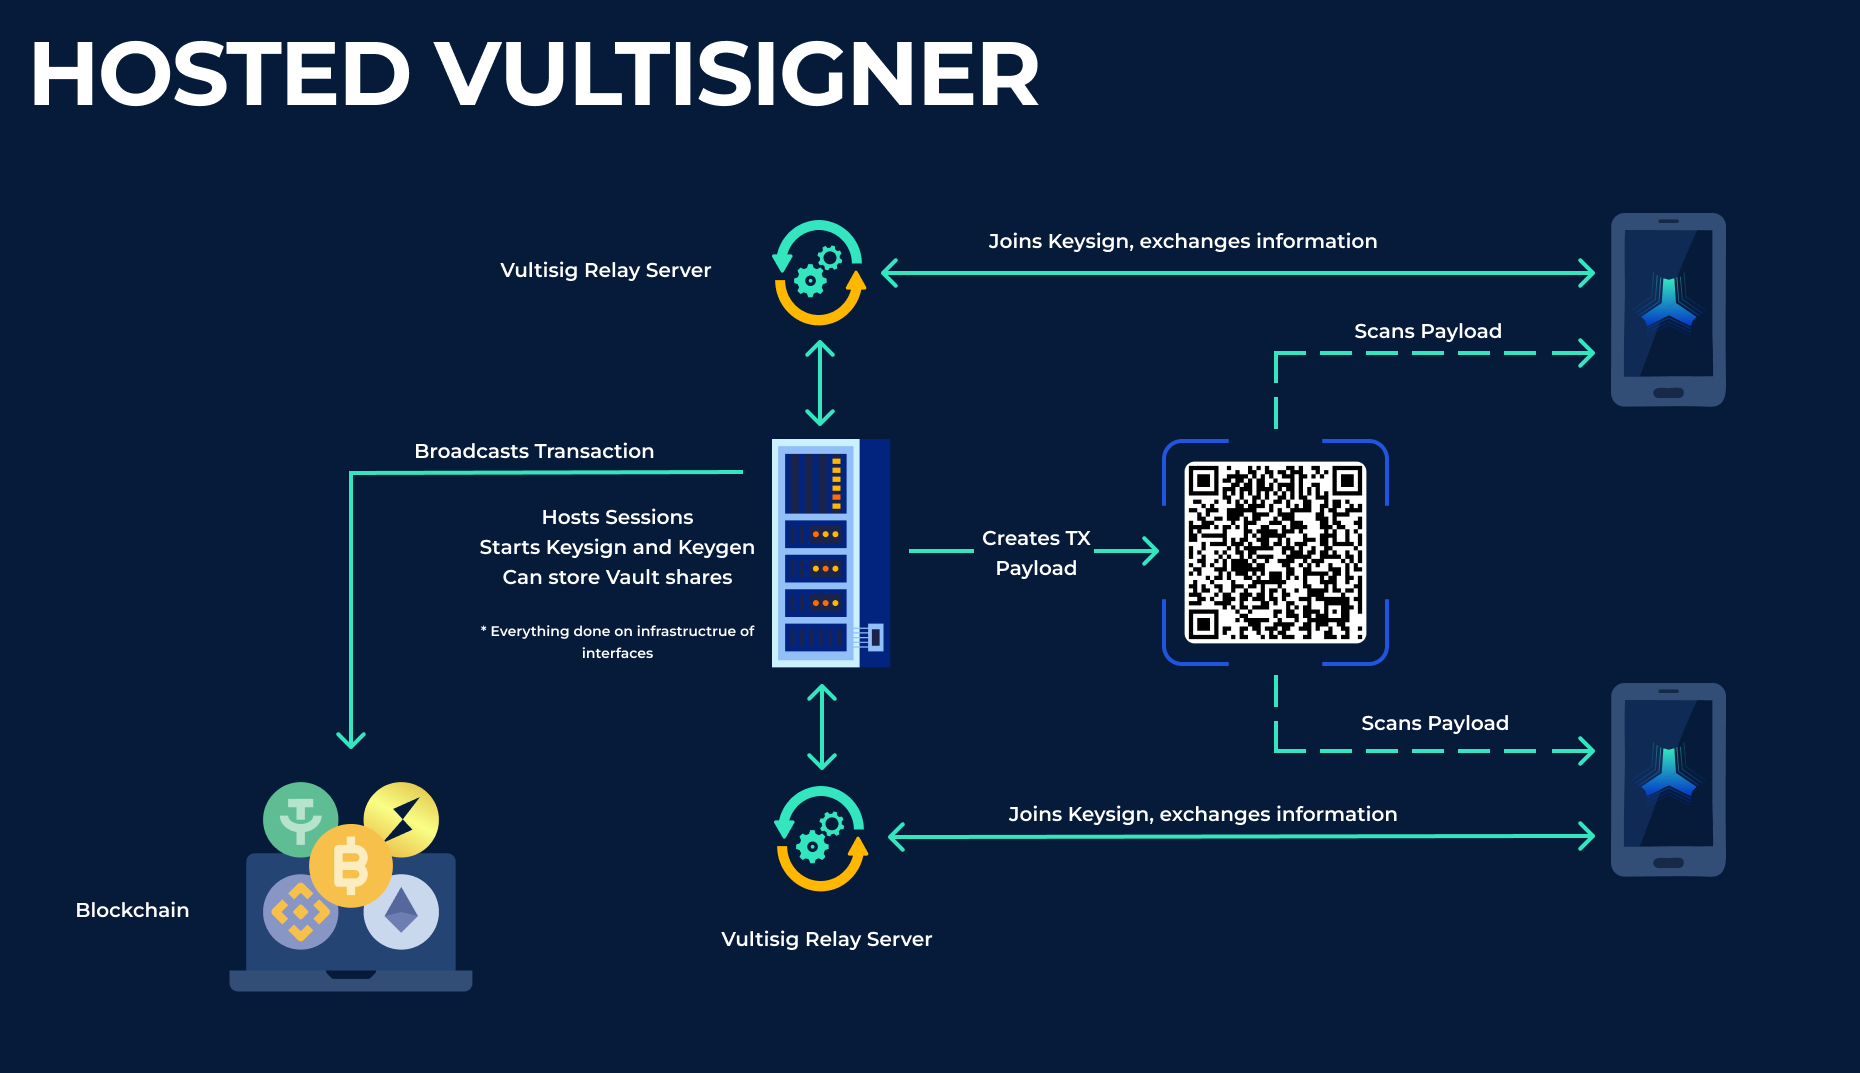
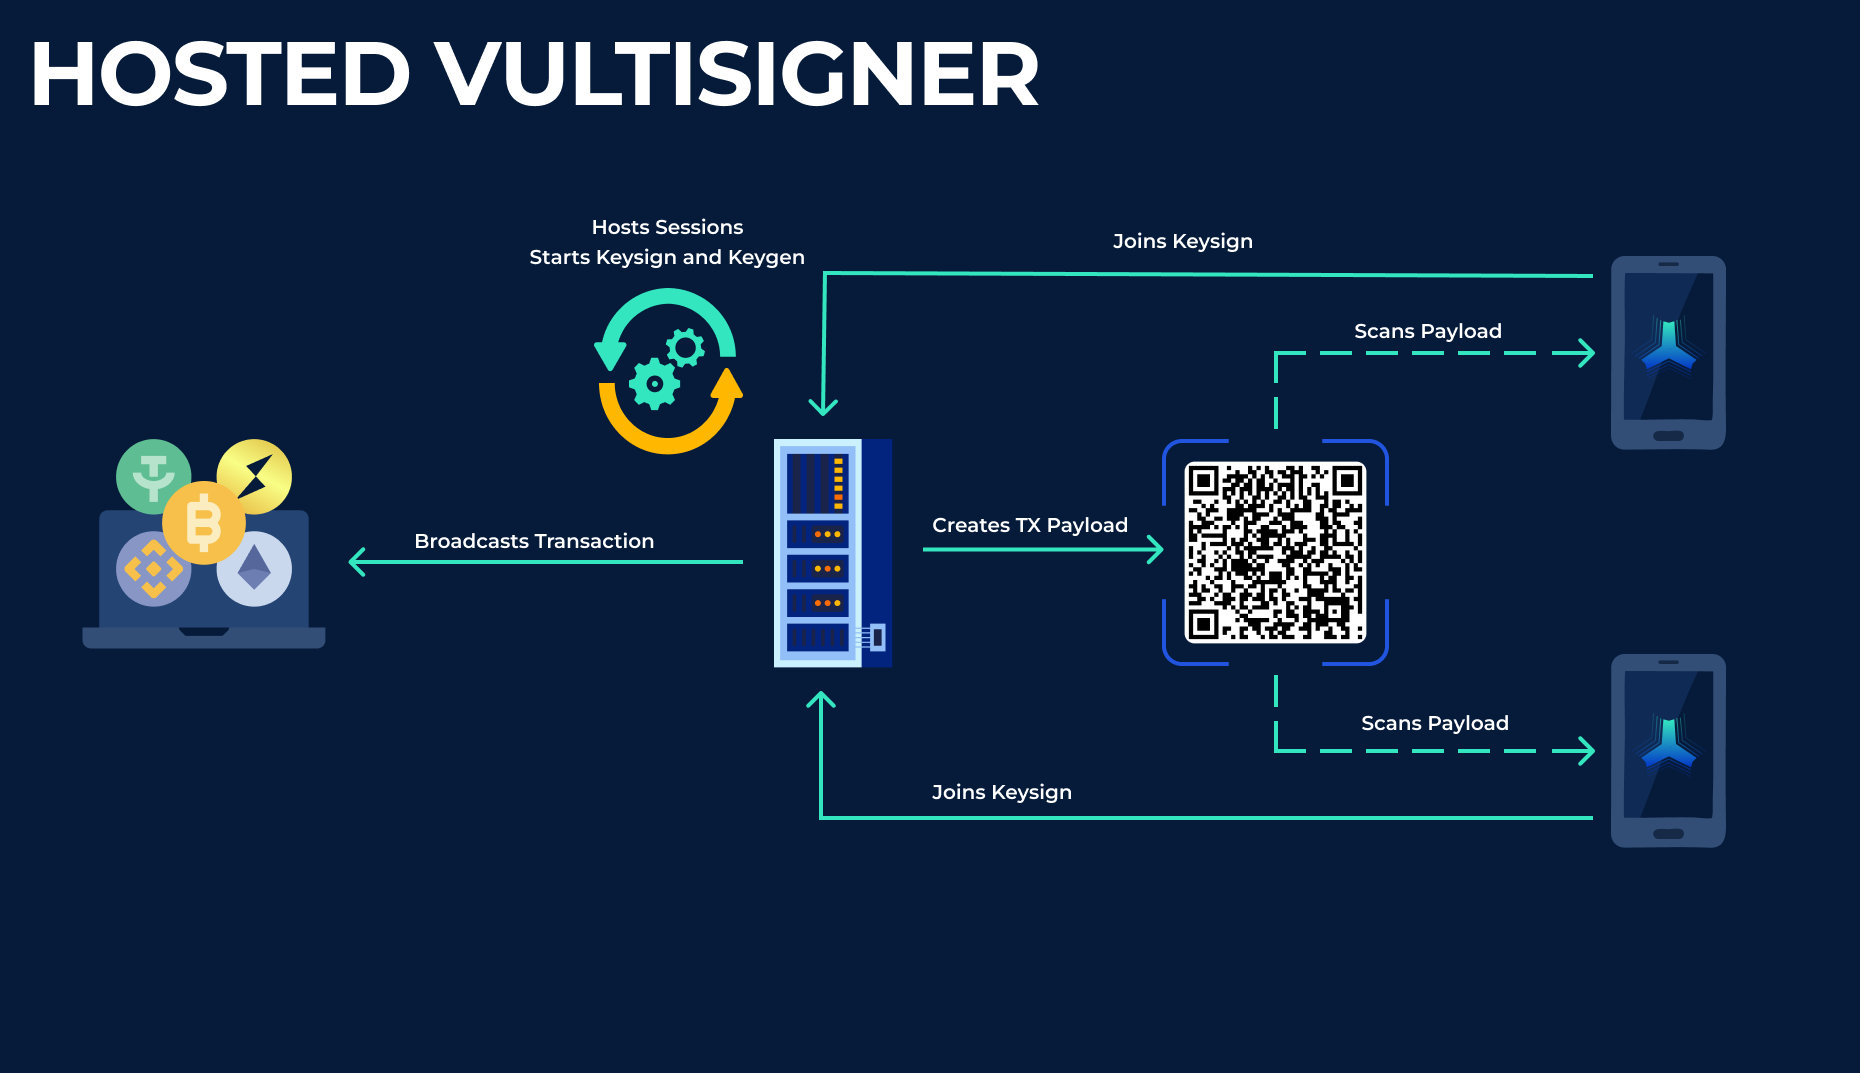
GITBOOK-58: Amend reshare and various passages

diff --git a/user-actions/managing-your-vault/vault-reshare.md b/user-actions/managing-your-vault/vault-reshare.md
@@ -1,25 +1,63 @@
 ---
-description: Resharing Vault Shares with paired devices
+description: >-
+  Resharing Vault Shares with paired devices and adding new devices to the
+  vault.
 ---
 
 # Vault Reshare
 
-<figure><img src="../../.gitbook/assets/image (1).png" alt=""><figcaption></figcaption></figure>
+<figure><img src="../../.gitbook/assets/image (1).png" alt=""><figcaption><p>Feature in settings</p></figcaption></figure>
 
-Re-share is a feature that allows you to re-share the Vault to all the other devices again, it is also possible to increase or decrease the number of parties participating in the Vault.
+## What is the Reshare feature
 
-Do this if a device was lost and want to include a new, unique device or to make sure all devices have compatible shares.
+Resharing is a feature that can be used in two ways.
 
-After clicking on "Re-share" in the Vultisig menu, the subsequent steps are very similar to creating a Vault: [#setup](../creating-a-vault.md#setup)
+1. Allows the user to reshare the current Vault configuration and update the vault shares of the current present devices of a Vault.
+2.  To increase/decrease the number of participating devices in a Vault setup.
 
-<figure><img src="../../.gitbook/assets/3.png" alt=""><figcaption></figcaption></figure>
 
-## Changing the Number of Parties
 
-Changing the number of parties is as simple as re-sharing the Vault to the name old devices, and joining the Keygen ceremony or leaving a device out.
+<figure><img src="../../.gitbook/assets/Reshare.png" alt=""><figcaption></figcaption></figure>
 
-After re-sharing a vault, the vault shares of each device also change. Therefore, the old shares that weren't present at the ceremony will be invalid and will not be able to sign any transactions.
+## How to use the Feature
+
+{% hint style="info" %}
+A threshold majority is **always** required to use this feature. \
+For example, for a 2-of-2 vault, both devices must be present.
+{% endhint %}
+
+Do this if a device has been lost in a 2-of-3 setup and you need to add a new, unique device or update the current shares.\
+_If a device of a 2-of-2 setup is lost please use the_ [_backup feature_](vault-backup.md)_._
+
+After clicking "Reshare" in the Vultisig Vault menu, the next steps are very similar to creating a Vault, as the reshare feature is just another keygen ceremony.
+
+<figure><img src="../../.gitbook/assets/3.png" alt="" width="188"><figcaption></figcaption></figure>
+
+## When to use the Reshare feature
+
+Like described in the section about [what the feature is](vault-reshare.md#what-is-the-reshare-feature), it can be used for the following:
+
+### Resharing the currenct Vault Setup
+
+This option doesn't change the configuration, it just refreshes the Vault shares. \
+This feature is recommended if there is a possibility that a Vault share has been compromised.
+
+### Changing the Number of Parties
+
+Changing the number of parties is as simple as joining another keygen session. \
+This gives the ability to change the number of devices participating in a setup. \
+New unique devices can be added or old devices can be excluded.
+
+## **IMPORTANT NOTE FOR RESHARE**
+
+After resharing a vault, the vault shares of each device also change.\
+This invalidates the old backups of the shares in Vultisig and increases the risk that mixed backups will be imported and restored. \
+**This can result in inaccessible vaults.**\
+_If that happened the_ [_emergency recovery_](../../threshold-signature-scheme/emergency-recovery.md) _can be used as last resort._
+
+Any device that was not present in a reshare will have a different vault share to the rest of the vault, making it impossible to join the keygen or keysign after the reshare. \
+This is intentional, as vault shares can be disabled in Vultisig if a share is suspected of being compromised.
 
 {% hint style="danger" %}
-**When you re-share, remove or add a device from your vault, make sure that you ALWAYS back up the vault shares!**
+**Be sure to ALWAYS back up your Vault shares after using the reshare feature!**
 {% endhint %}

diff --git a/user-actions/creating-a-vault.md b/user-actions/creating-a-vault.md
@@ -27,31 +27,31 @@ The following are the most common vaults:
 ## Creating A Vault
 
 {% hint style="success" %}
-Remember - all your devices must be open with Vultisig and must be connected on the same Wi-Fi network or Internet, using the Vultisig Relay Server. \
-**If they are not fully connected, they will fail the Keygen.**
+Remember - all your devices must have the Vultisig open and must be connected to the same Wi-Fi network or Internet, using the Vultisig Relay Server. \
+**The keygen will fail if the connection is not stable.**
 {% endhint %}
 
 Get your devices ready and create a vault.
 
 <figure><img src="../.gitbook/assets/Get Started .png" alt="" width="188"><figcaption></figcaption></figure>
 
-Select the Vault set-up of preference: 2-2, 2-3, m-n
+Select the Vault setup of preference:&#x20;
+
+* 2-of-2
+* 2-of-3
+* &#x20;`m`-of-`n`
 
 <figure><img src="../.gitbook/assets/3.png" alt="" width="188"><figcaption></figcaption></figure>
 
 
 
-Follow these steps for the following devices after selecting your preferred setup**:**
+After selecting your preferred setup, follow these steps for the following devices**:**
 
 **Main Device:** START -> will show a QR Code to scan with your pairing device(s)
 
 <figure><img src="../.gitbook/assets/Main Device Keygen Internet.png" alt="" width="188"><figcaption></figcaption></figure>
 
-{% hint style="info" %}
-The Internet and Local options will be implemented in the next iOS update and are already active on android
-{% endhint %}
-
-**Pair Device:** PAIR -> will start the camera to scan the QR code
+**Pair Device:** PAIR -> will start the camera to scan the QR code or a shared QR code can be imported.
 
 <figure><img src="../.gitbook/assets/3.png" alt="" width="188"><figcaption></figcaption></figure>
 
@@ -59,20 +59,22 @@ The Internet and Local options will be implemented in the next iOS update and ar
 
 You can choose Internet or WiFI.
 
-1. **Internet:** Using the Vultisig relay server. Encrypted packets are routed through a relay server.
-2. **Wi-Fi**: Using local Network, however may not work on some Wi-Fi networks (since they block mDNS packets)
+1. **Internet:** Using the Vultisig relay server. Encrypted packages are routed through the Vultisig relay server.
+2. **Wi-Fi**: Using local Network, however may not work on some Wi-Fi networks (since they may block mDNS packets)
 
 <figure><img src="../.gitbook/assets/Main Device Keygen Internet.png" alt="" width="188"><figcaption></figcaption></figure>
 
 ### Keygen
 
-Once clicking **CONTINUE**, the keygen process will begin. Firstly, it will create the pre-parameter (your vault shares and some other aspects, around 10 seconds), then it will create the ECDSA and EdDSA keys (another 10 seconds). Finally, it will be done! Make sure all devices show the done screen.
+Once you click CONTINUE, the keygen process will begin. First it will create the pre-parameters (your vault shares and some other aspects, about 10 seconds), then it will create the ECDSA and EdDSA keys (another 10 seconds). \
+Finally, it is done! Make sure that all devices show the done screen.
 
 <figure><img src="../.gitbook/assets/Keygen.png" alt="" width="188"><figcaption></figcaption></figure>
 
 ### Troubleshooting
 
-If Keygen fails it is because you have an unreliable network and the devices dropped connections.
+If a Keygen fails, it may be because you have an unreliable network and the devices dropped connections.
 
-1. Quit the apps and start again.
+1. Quit the apps.
 2. Change networks.
+3. Start again.

diff --git a/user-actions/managing-your-vault/vault-backup.md b/user-actions/managing-your-vault/vault-backup.md
@@ -1,5 +1,5 @@
 ---
-description: Exporting vault shares, backing up vaults, importing vault shares.
+description: Exporting vault shares, backing up or importing vaults shares.
 ---
 
 # Vault Backup
@@ -13,18 +13,19 @@ description: Exporting vault shares, backing up vaults, importing vault shares.
 ## How do Vault-Shares work in Vultisig?
 
 * Each device in the vault has its **own unique** vault share. So each device needs its **own backup**.
-* Each vault share by itself does not have access to your assets, so it is safe to export and store them digitally.
+* Each vault share by itself does not have access to any assets, so it is safe to export and store them digitally.
 
 {% hint style="danger" %}
-Do not store vault shares of the same vault from different devices in the same location, as this means that a malicious party can potentially reconstruct your vault.
+**Never** store different vault shares of the same vault in the same location, as this could potentially lead to loss of funds. \
+This can happen if a malicious party gains access to that location and is able to reconstruct the vault.
 {% endhint %}
 
 ### Digital Storage Suggestions
 
-* Store vault-shares on different cloud drives
-* Have independent cloud drive accounts for each Vault share.
-* Ensure that a device does not have access to multiple cloud drive accounts that store Vault shares.
-* Use offline devices to store vault shares
+* [x] Storing vault-shares on different cloud drives/locations
+* [x] Having independent cloud drives or password manager for each Vault share.
+* [x] Ensuring that a device does not have access to multiple cloud drives or password managers that store Vault shares.
+* [x] Use offline devices to store vault shares
 
 ## Backup Encryption
 
@@ -36,7 +37,12 @@ The Password option can either activated with putting in a strong password and *
 
 ## **Recovering a lost device**
 
-If you lose a device you have two options:
+If a device is lost, there are two ways to recover the device:
 
-* **Option 1.** Import the original backed-up vault share into a new device.
-* **Option 2.** Re-share the vault using the two other devices to include a new device.
+* **Option 1:** Import the original backed-up vault share into a new device.
+* **Option 2:** Reshare the vault using the two other devices to include a new device. This is only possible on a 2-of-3 setup.
+
+{% hint style="warning" %}
+**Backups are reshare sensitive**. \
+This means that backups are incompatible with each other after using the reshare feature, see [here](vault-reshare.md#important-note-for-reshare) for more information.
+{% endhint %}

diff --git a/vultisigner/how-does-vultisigner-work.md b/vultisigner/how-does-vultisigner-work.md
@@ -1,5 +1,32 @@
 # How does a Vultisigner work?
 
-A vault share is stored on a dedicated Vultisig server, which holds the vault along with instructions on when that vault share should sign transactions.
+## Set Up
 
-When a user wishes to sign a transaction, the request is sent to the Vultisig server. The appropriate vault share will participate in the key signing process only if the specified requirements are met.
+### 2-of-2 Vault
+
+In this setup, the Vault is created together with a user's device and the Vultisigner server. \
+The user registers a keygen request with the Vultisigner server, which creates a new Vault that records the connection to the user's device. A keygen ceremony is then executed, which creates the Vault shares on the user's device and on the Vultisigner server. \
+For security reasons, these Vault shares are password encrypted and the user must provide an email address to which the Vault share will be sent by the Vultisigner for backup and independent access.
+
+### 2-of-3 Vault
+
+In this setup, the Vault can be created initially together with the Vultisigner, or later added to an existing Vault with the[ Reshare](../user-actions/managing-your-vault/vault-reshare.md) feature. \
+The rest of the process is similar to that described for setting up a [2-of-2 Vault](how-does-vultisigner-work.md#id-2-of-2-vault).
+
+## Vault Share storage
+
+The Vault Shares are stored on a dedicated Vultisigner server, which contains the Vault Shares along with configured instructions for signing transactions.\
+Those Vault shares can be requested via email.
+
+{% hint style="info" %}
+Requesting the Vault Share stored on the Vultisigner server via email is always advised but optional in a 2 of 3 vault. \
+**It is mandatory in a 2 of 2 setup.**
+{% endhint %}
+
+## Transaction Signing
+
+When a user wishes to sign a transaction, the request is sent to the Vultisigner server. \
+The appropriate Vultisigner Vault will verify that the configured transaction policies are met before participating in the Keysign process. \
+If they are met, the Vultisigner joins the Keysign ceremony and the transaction is broadcasted to the blockchain.
+
+<figure><img src="../.gitbook/assets/default vultisigner.png" alt=""><figcaption><p>Vultisigner Flowchart</p></figcaption></figure>

diff --git a/vultisigner/what-is-vultisigner.md b/vultisigner/what-is-vultisigner.md
@@ -4,8 +4,10 @@
 Vultisigner is still to be implemented
 {% endhint %}
 
-Vultisigner is a feature of Vultisig that allows for the automatic co-signing of transactions within a user's Vault, but only under pre-defined parameters set by the Vault owner. It acts as an automatic co-signer that engages only when specific user-defined criteria are met.
+Vultisigner is a feature of Vultisig that allows for the automatic co-signing of transactions within a user's Vault, but only under pre-defined parameters set by the Vault owner. \
+It acts as an automatic co-signer that engages only when specific user-defined criterias are met.
 
-This functionality allows users to manage a Vultisig vault that inherently operates as a multi-device vault while providing the user experience of a single-signature wallet when signing transactions, particularly in a 2-of-2 Vault configuration. When used in a 2-of-3 setup, it significantly enhances security.&#x20;
+This functionality allows users to manage a Vultisig vault that inherently operates as a multi-device, multi-factor vault while providing the user experience of a single-signature wallet when signing transactions. Particularly in a 2-of-2 Vault configuration. \
+When used in a 2-of-3 setup, it significantly enhances security due to the added transaction policies.&#x20;
 
-Additionally, Vultisigner ensures that funds undergo automatic security checks that are consistently met once configured. These features can be modified by obtaining the threshold majority of vault shares and signing a transaction, offering flexibility in maintaining and updating security protocols.
+Therefore the Vultisigner feature ensures that funds undergo automatic security checks that are consistently met once configured. These features can be modified by obtaining the threshold majority of vault shares and signing a transaction, offering flexibility in maintaining and updating security protocols.

diff --git a/vultisigner/why-is-it-safe.md b/vultisigner/why-is-it-safe.md
@@ -1,7 +1,7 @@
 # Why is it safe?
 
-Since the Vultisig server always holds only one Vault share, it can never sign a transaction on its own without the user's participation, even if the server is compromised. \
-In addition, the server is configured to never initiate a transaction; it can only participate in the key signing process.
+Since the Vultisiginer server always holds only one Vault share, it will never be able to sign a transaction on its own without the participation and consent of the user, even in the event that the server is compromised.\
+In addition, the server is configured so that it can never initiate a transaction; it can only be a participant in the key signing process.
 
-In the event that the Vultisig server is offline, the user still retains the threshold majority required to perform key generation and key signing ceremonies. \
-In addition, the Vault share hosted on the Vultisig server can be requested by email to be sent to the user, which is mandatory in a 2-of-2 Vault configuration.
+In the event that the Vultisig server is offline, the user will still have the threshold majority required to perform Keysign ceremonies.\
+The hosted Vault share on the Vultisigner server can be requested by email to be sent to the user as indicated [before](how-does-vultisigner-work.md#vault-share-storage), which is mandatory in a 2-of-2 Vault configuration.

diff --git a/vultisigner/what-can-be-configured.md b/vultisigner/what-can-be-configured.md
@@ -1,5 +1,10 @@
 # What can be configured?
 
-{% hint style="info" %}
-The exact features will be specified later. But it will be possible to set transaction limits, whitelist certain addresses, add time limits and more.
-{% endhint %}
+The transaction policies for Vultisigner can be configured to meet the specific needs of each user. \
+The default transaction policy can look like this:
+
+* Only allow swaps inside the vault (from pubkey to pubkey)
+* Max. $1k-$10k-$100k per day transaction limits
+* Only send to whitelist addresses
+* Send to non-whitelist addresses with 24 hour delay
+* Add new address whitelist with 24-hour delay

diff --git a/vultisigner/vultisigner-for-interfaces/unhosted-vultisigner.md b/vultisigner/vultisigner-for-interfaces/unhosted-vultisigner.md
@@ -4,7 +4,7 @@
 
 If the user already has a Vault on their devices and the interfaces want to allow the user to interact with their dApp without creating a dedicated Vault for the application, they can opt for this version.
 
-<figure><img src="../../.gitbook/assets/Unhosted (1).png" alt=""><figcaption><p>Flowchart - Unhosted</p></figcaption></figure>
+<figure><img src="../../.gitbook/assets/Unhosted.png" alt=""><figcaption><p>Flowchart - Unhosted</p></figcaption></figure>
 
 ***
 

diff --git a/vultisigner/vultisigner-for-interfaces/hosted-vultisigner.md b/vultisigner/vultisigner-for-interfaces/hosted-vultisigner.md
@@ -7,7 +7,7 @@ This configuration allows the partners to oversee the entire process from key ge
 
 ***
 
-<figure><img src="../../.gitbook/assets/Hosted (1).png" alt=""><figcaption><p>Flowchart - Hosted</p></figcaption></figure>
+<figure><img src="../../.gitbook/assets/Hosted.png" alt=""><figcaption><p>Flowchart - Hosted</p></figcaption></figure>
 
 ### Key generation and Vault setup
 
